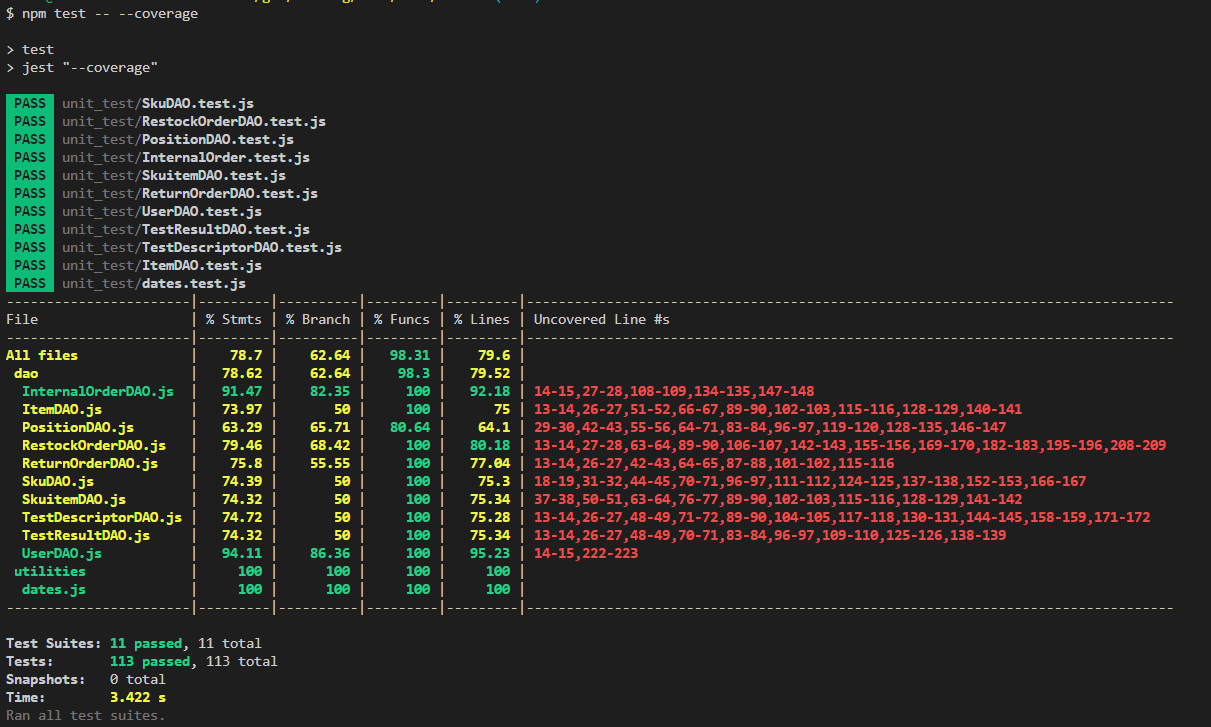
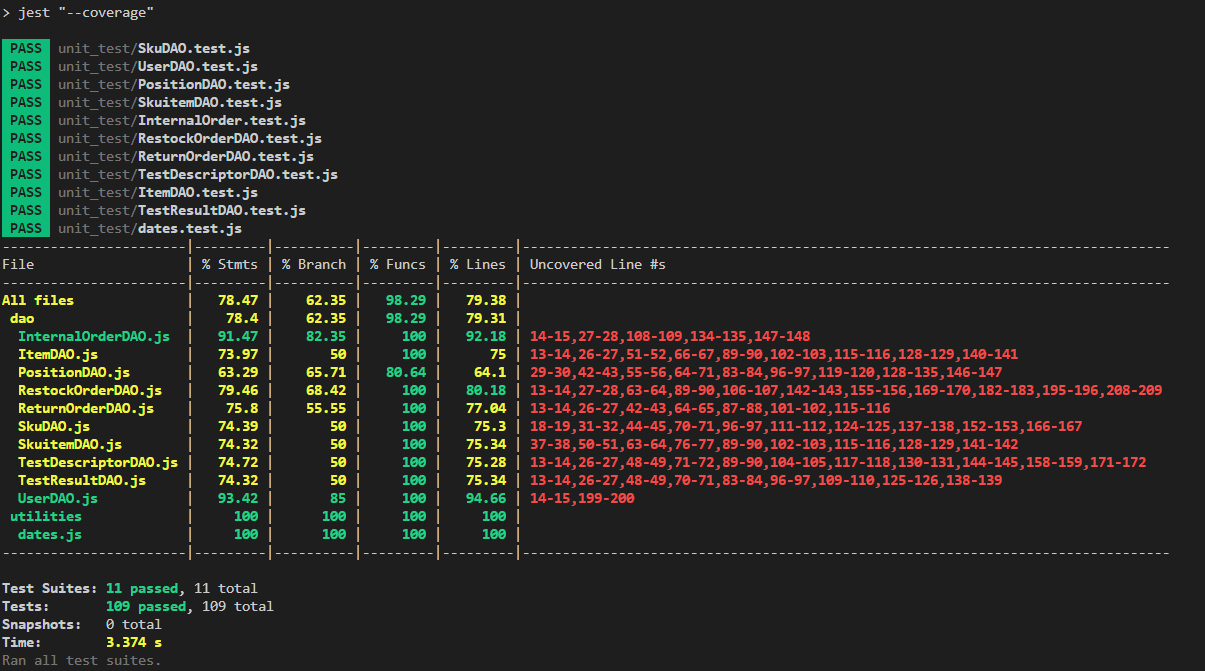
Removing unused function

Changed region(s): [[0.0, 0.0596, 0.9826, 0.8346], [0.0, 0.8644, 0.2456, 1.0], [0.0, 0.0, 0.1842, 0.0298]]

diff --git a/code/server/unit_test/UserDAO.test.js b/code/server/unit_test/UserDAO.test.js
@@ -50,18 +50,6 @@ function testGetUserByEmailType(input,expectedResult) {
     });
 }
 
-function testGetUsers(expectedResult) {
-    test('Retrieving users', async () => {
-        try{
-            let res = await db.getStoredUsers();
-            expect(JSON.stringify(res)).toStrictEqual(JSON.stringify(expectedResult));
-        }
-        catch(err){
-            expect(err.code).toStrictEqual(expectedResult);
-        }
-    });
-}
-
 function testGetSuppliers(expectedResult) {
     test('Retrieving suppliers', async () => {
         try{
@@ -116,8 +104,6 @@ describe('Test User DAO', () => {
 
     //Add user
     testAddUser({username: "user1@ezwh.com",name: "John",surname : "Smith",password : "testpassword",type : "customer"},1);
-    //Get user, should be the same as just added
-    testGetUsers([{id: 1, name: "John", surname: "Smith", email: "user1@ezwh.com",type: "customer"}]);
     //Get users excluding manager.Should be the same as before
     testGetUsersWithoutManagers([{id: 1, name: "John", surname: "Smith", email: "user1@ezwh.com",type: "customer"}]);
     //Get suppliers, should be empty
@@ -131,15 +117,11 @@ describe('Test User DAO', () => {
     
     //Edit User to supplier
     testEditUser({username: "user1@ezwh.com",type : "customer", newType: "supplier"},1);
-    //Get user, should be the same as just edited
-    testGetUsers([{id: 1, name: "John", surname: "Smith", email: "user1@ezwh.com",type: "supplier"}]);
     //Get suppliers, should be the same as just edited
     testGetSuppliers([{id: 1, name: "John", surname: "Smith", email: "user1@ezwh.com"}]);
     
     //Delete user (supplier)
     testDeleteUser({username: "user1@ezwh.com",type : "supplier"},1);
-    //Get users, should be empty
-    testGetUsers([]);
     //Get suppliers, should be empty
     testGetSuppliers([]);
     //Get users excluding manager.Should be empty
@@ -150,7 +132,6 @@ describe('Test User DAO', () => {
     //Repeat all test without create the proper table, this will generate a SQLLITE_ERROR
     testDropUsers();    //DROP TABLE
     testAddUser({username: "user1@ezwh.com",name: "John",surname : "Smith",password : "testpassword",type : "customer"},"SQLITE_ERROR");
-    testGetUsers("SQLITE_ERROR");
     testGetUsersWithoutManagers("SQLITE_ERROR");
     testGetSuppliers("SQLITE_ERROR");
     testGetUserByEmailType({username: "user1@ezwh.com",type : "customer"},"SQLITE_ERROR");  

diff --git a/code/server/dao/UserDAO.js b/code/server/dao/UserDAO.js
@@ -103,29 +103,6 @@ class UserDAO{
         })
     }
 
-    getStoredUsers() {
-        return new Promise((resolve, reject) => {
-            const sql = 'SELECT * FROM USERS'
-            this.db.all(sql, [], (err, rows) => {
-                if(err){
-                    reject(err);
-                    return;
-                }
-                const names = rows.map((r) => (
-                    {
-                        id: r.ID,
-                        name: r.NAME,
-                        surname: r.SURNAME,
-                        email: r.EMAIL,
-                        type: r.TYPE
-                    }
-                    
-                ));
-                resolve(names)
-            })
-        })
-    }
-
     getStoredUsersWithoutManagers() {
         return new Promise((resolve, reject) => {
             const sql = 'SELECT * FROM USERS WHERE TYPE != "manager"'
